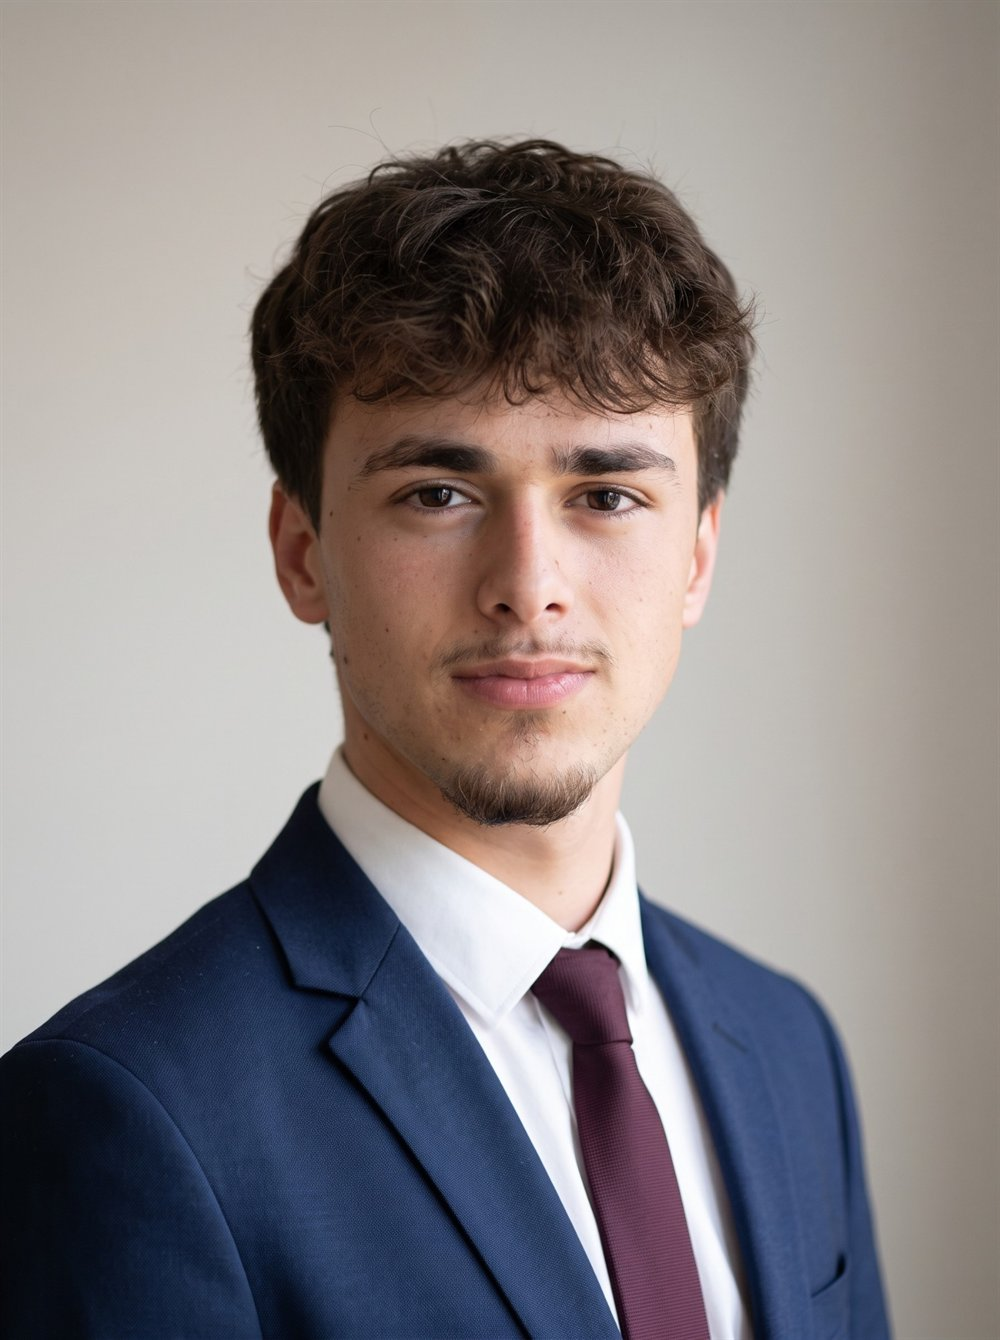
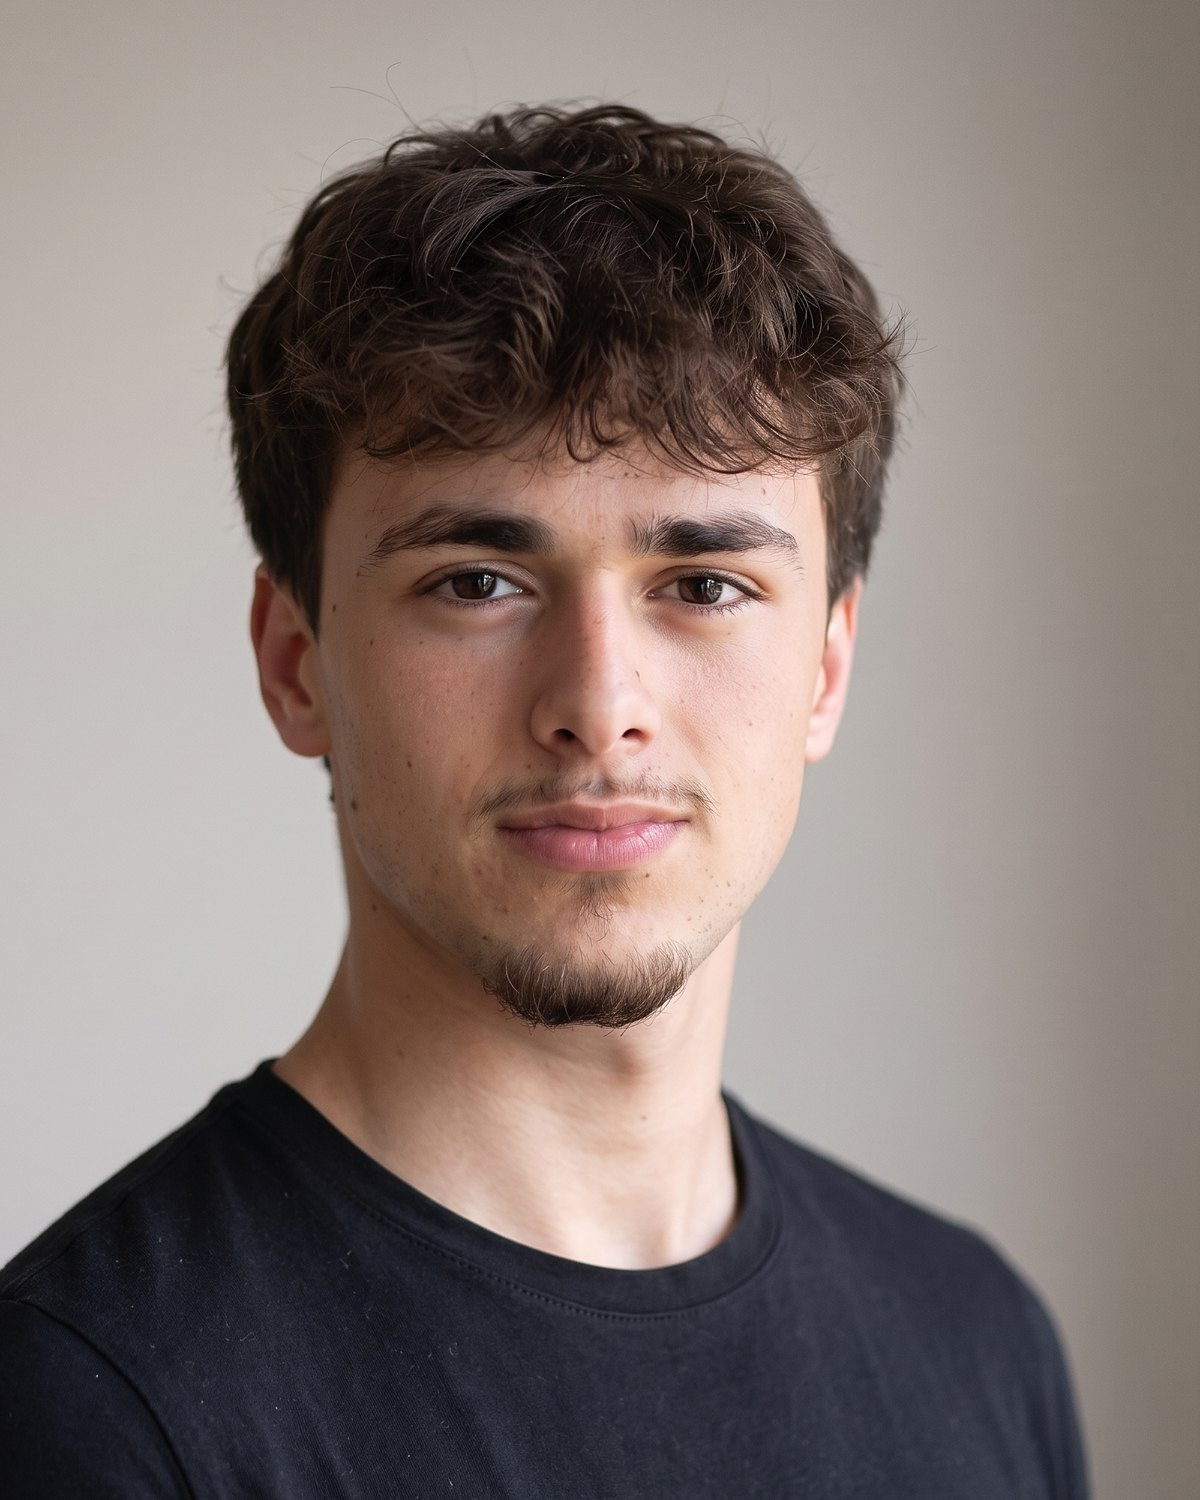
Nouvelle photo de profil sur tout le site
- Portrait recadré en 4:5 sur le visage (robin-canovas.jpg), avatar carré
  serré pour les petits ronds (robin-canovas-avatar.jpg).
- Carte d'aperçu de partage 1200×630 (robin-canovas-og.jpg) : nom, cursus
  et photo, aux couleurs du site.

Claude-Session: https://claude.ai/code/session_015z6RyeJV5sVYaajfitVH8b

diff --git a/src/data/profile.ts b/src/data/profile.ts
@@ -16,7 +16,10 @@ export const profile = {
   pitch:
     'Work-study computer science student at the IUT d’Orsay (Université Paris-Saclay), I’m building a generalist profile, strong in both maths and computing, with a clear goal: a selective master’s programme or a grande école. Alongside my studies, I already turn business requirements into secure, reliable software, including for a BNP Paribas group subsidiary.',
   ambition: 'My study project: after the BUT, a selective master’s or a grande école, to go deeper into maths, data and decision-making. In the long run, I want demanding roles where technology informs decisions, without closing any doors.',
-  avatar: './robin-canovas.jpg',
+  /** Head-and-shoulders portrait, 4:5, framed on the face. */
+  portrait: './robin-canovas.jpg',
+  /** Tight square crop for small round avatars. */
+  avatar: './robin-canovas-avatar.jpg',
 };
 
 /**

diff --git a/index.html b/index.html
@@ -9,7 +9,9 @@
     <meta property="og:title" content="Robin Canovas | Étudiant en informatique &amp; analyste développement" />
     <meta property="og:description" content="Bases de données, réseaux, Symfony et React : le portfolio de Robin Canovas." />
     <meta property="og:locale" content="fr_FR" />
-    <meta property="og:image" content="https://robincanovas.github.io/portfolio/robin-canovas.jpg" />
+    <meta property="og:image" content="https://robincanovas.github.io/portfolio/robin-canovas-og.jpg" />
+    <meta property="og:image:width" content="1200" />
+    <meta property="og:image:height" content="630" />
     <meta property="og:url" content="https://robincanovas.github.io/portfolio/" />
     <meta name="twitter:card" content="summary_large_image" />
     <meta property="og:type" content="website" />

diff --git a/src/components/Portrait.tsx b/src/components/Portrait.tsx
@@ -23,12 +23,12 @@ export function Portrait() {
             </div>
           ) : (
             <img
-              src={profile.avatar}
+              src={profile.portrait}
               alt={t('portrait.alt', { name: profile.name })}
               onError={() => setFailed(true)}
-              width={1000}
-              height={1340}
-              className="aspect-[4/5] w-full scale-[1.12] object-cover object-[50%_18%] saturate-[0.92]"
+              width={1200}
+              height={1500}
+              className="aspect-[4/5] w-full object-cover saturate-[0.95]"
               fetchPriority="high"
             />
           )}

diff --git a/src/components/Contact.tsx b/src/components/Contact.tsx
@@ -15,7 +15,7 @@ function Avatar({ size = 'size-24' }: { size?: string }) {
           <UserRound className="size-1/2" aria-hidden="true" />
         </div>
       ) : (
-        <img src={profile.avatar} alt={profile.name} onError={() => setFailed(true)} className="size-full rounded-full object-cover object-top" loading="lazy" />
+        <img src={profile.avatar} alt={profile.name} onError={() => setFailed(true)} className="size-full rounded-full object-cover" loading="lazy" />
       )}
     </div>
   );
